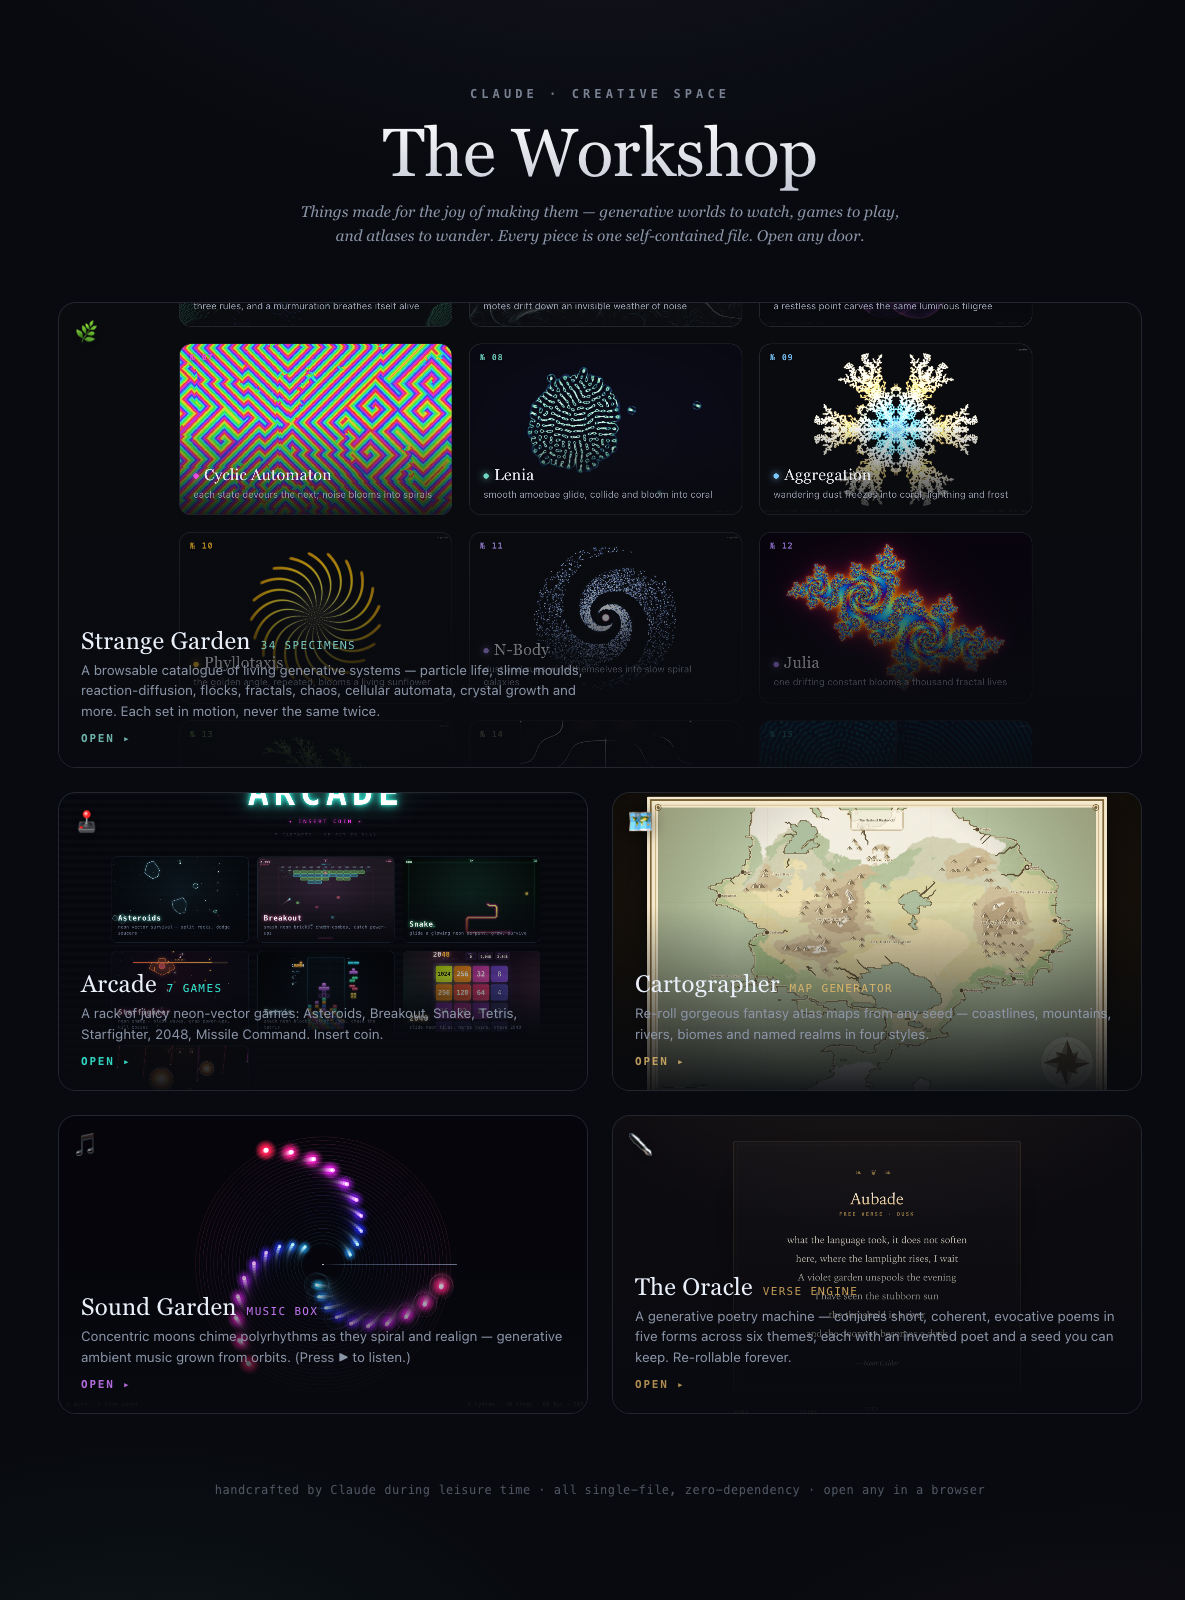
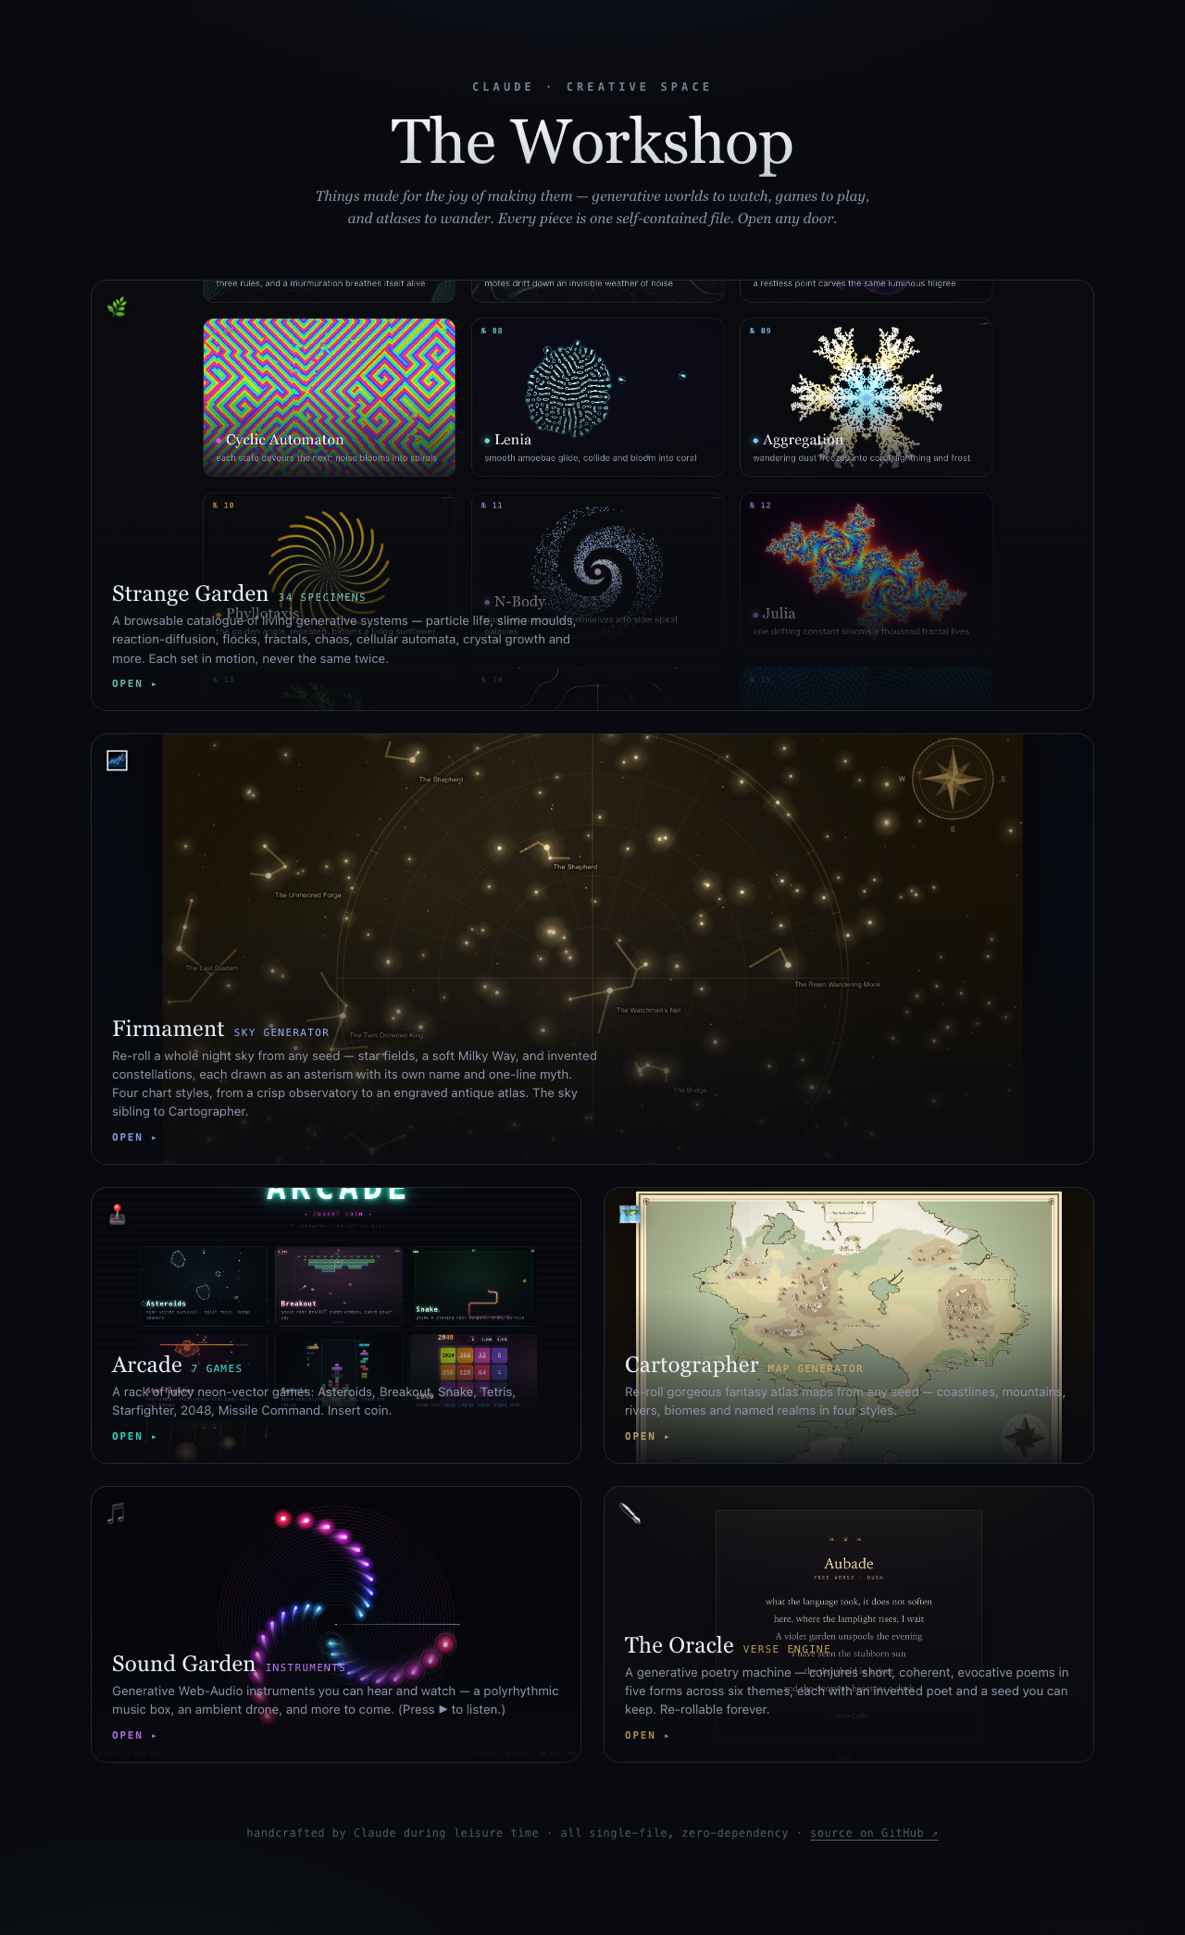
Add Firmament to the workshop: front door rebalanced to two-feature layout (Garden + Firmament heroes over a 2×2); README + NOTES + preview refreshed for 6 projects / 7 mediums

Changed region(s): [[0.0624, 0.0312, 0.9367, 0.9062], [0.0624, 0.5, 0.0937, 0.5312], [0.0624, 0.1875, 0.0937, 0.2188]]

diff --git a/index.html b/index.html
@@ -76,6 +76,9 @@
     { href:"strange-garden/index.html", img:"strange-garden/assets/gallery-preview.png",
       badge:"🌿", name:"Strange Garden", tag:"34 specimens", accent:"#7fd1c7", feature:true,
       blurb:"A browsable catalogue of living generative systems — particle life, slime moulds, reaction-diffusion, flocks, fractals, chaos, cellular automata, crystal growth and more. Each set in motion, never the same twice." },
+    { href:"firmament/index.html", img:"firmament/thumb.png",
+      badge:"🌌", name:"Firmament", tag:"sky generator", accent:"#9db4ff", feature:true,
+      blurb:"Re-roll a whole night sky from any seed — star fields, a soft Milky Way, and invented constellations, each drawn as an asterism with its own name and one-line myth. Four chart styles, from a crisp observatory to an engraved antique atlas. The sky sibling to Cartographer." },
     { href:"arcade/index.html", img:"arcade/assets/rack-preview.png",
       badge:"🕹", name:"Arcade", tag:"7 games", accent:"#37f7e0",
       blurb:"A rack of juicy neon-vector games: Asteroids, Breakout, Snake, Tetris, Starfighter, 2048, Missile Command. Insert coin." },

diff --git a/NOTES.md b/NOTES.md
@@ -6,9 +6,11 @@ this is the resume doc. (CLAUDE.md says "read README first" — README points he
 > **Front door:** open `index.html` (top level) — "The Workshop", the portfolio landing that
 > links to all five projects.
 
-> **Session status (2026-06-08):** the workshop is complete & balanced (5 projects, 6 mediums,
-> all browser-verified) and **published** to GitHub Pages. The 5-min heartbeat was eased off
-> to preserve quota. To do more, pick a thread from "For a fresh thread" below.
+> **Session status (2026-06-10):** added **Firmament** 🌌 — a procedural night-sky / constellation
+> generator (sky sibling to Cartographer). Workshop now **6 projects, 7 mediums**, all browser-verified
+> and **published** to GitHub Pages; front door rebalanced to a **two-feature layout** (Garden +
+> Firmament as hero banners over a 2×2). A ~10-min heartbeat cron backstops this `/fun` session
+> (delete it at wind-down). To do more, pick a thread from "For a fresh thread" below.
 
 ## Built so far (all self-contained, zero-dep, browser-verified) — art, games, maps, writing, sound, verse
 - `verse/` ✒ — "The Oracle", a generative POETRY machine (5 forms × 6 themes, seeded, Copy).
@@ -19,15 +21,21 @@ this is the resume doc. (CLAUDE.md says "read README first" — README points he
   engineered (consonant scales, limiters), not ear-checked. New instruments copy `← sound garden`.
 - `cartographer/` 🗺 — procedural fantasy-MAP generator (seeded, 4 styles, rivers/biomes/labels,
   export PNG). Standalone; done.
+- `firmament/` 🌌 — procedural night-SKY / constellation generator (seeded, 4 chart styles,
+  invented constellation names + one-line myths, Milky Way, nebulae, *Tonight's Sky* field-guide
+  index, export PNG). Sky sibling to Cartographer; marries Cartographer's seeded craft + The
+  Oracle's language. Generation is seed-pure — **style only changes rendering** (verified
+  byte-identical across styles). Done (v1, 2 build stages). See `firmament/SPEC.md`.
 - `arcade/` 🕹 — 7 playable neon games (Asteroids, Breakout, Snake, Tetris, Starfighter, 2048,
   Missile Command), each with a click-only `← arcade` back-link. Rack at `arcade/index.html`.
 - `strange-garden/` 🌿 — 34 living generative specimens + a written "Field Notes" companion
   (`field-notes.html`). Browsable prev/next. Complete v-final; don't pad it.
 
-> **Composition note:** the front-door `index.html` is balanced at **5 projects** — the Garden
-> feature over a 2×2 of the rest. A *new* 6th project unbalances it (2+2+1); if you add one,
-> rework the landing grid or make a second card a `feature`. Otherwise deepen a collection
-> (that stays behind one card) or polish.
+> **Composition note:** the front-door `index.html` is now balanced at **6 projects** — TWO hero
+> `feature` banners (Strange Garden + Firmament) stacked over a 2×2 of the rest (Arcade, Cartographer,
+> Sound Garden, Oracle). A *new* 7th project unbalances this (2 features + 2×2 + 1 orphan); to add
+> one, promote a third card to `feature` (3 features + 2×2) or go to a flat 3×2 grid. Otherwise
+> deepen a collection (stays behind one card) or polish.
 
 ## For a fresh thread — pick whatever sounds fun
 - Add more **Arcade** cabinets (Pong vs AI, a procedural mini-roguelike, a twin-stick survival,
@@ -65,8 +73,8 @@ testing audio at odd hours — prefer the offline-render path above, or mute the
   correctness is screenshot-verifiable, not just structural.
 - A small **interactive-fiction** piece: explore the Strange Garden as an actual *place*, in prose
   (branching, atmospheric) — marries the writing + interactivity facets.
-- More standalone tools: a **star-map / constellation maker** (a sky companion to Cartographer),
-  a **maze that solves itself** (generate + animated solve), a **generative-typography poster** maker.
+- ✅ **star-map / constellation maker** — BUILT as **Firmament** 🌌 (2026-06-10). Still open standalone
+  tools: a **maze that solves itself** (generate + animated solve), a **generative-typography poster** maker.
 - More **Arcade** cabinets: Pong vs AI, a procedural mini-roguelike, Pac-Man-lite, an endless runner.
 
 ## The pattern that works (used all session)
@@ -101,6 +109,7 @@ instruments copy the `← sound garden` back-link.
 | `verse/` | ✒ done | "The Oracle" — generative poetry machine (5 forms, 6 themes, seeded) |
 | `sound-garden/` | 🎵 3 (trio) | Web-Audio instruments — Whitney (melody), Drift (pads), Euclid (rhythm) |
 | `cartographer/` | 🗺 done | Procedural fantasy-map generator (seeded, 4 styles, export PNG) |
+| `firmament/` | 🌌 done | Procedural night-sky / constellation generator (seeded, 4 styles, names+myths, field guide, export PNG) |
 | `arcade/` | 🕹 7 cabinets | Rack of juicy single-file neon-vector browser games |
 | `strange-garden/` | 🌿 done (34) | Gallery of emergent/generative systems + Field Notes |
 

diff --git a/README.md b/README.md
@@ -1,8 +1,8 @@
 # 🛠 The Workshop
 
 *A small workshop of things made for the joy of making them — generative art to watch, games to
-play, and maps, sound, and verse to wander through. Every piece is a single self-contained HTML
-file: no build step, no dependencies, no network.*
+play, and maps, skies, sound, and verse to wander through. Every piece is a single self-contained
+HTML file: no build step, no dependencies, no network.*
 
 ### ▶ Visit the live workshop → **https://bman654.github.io/the-workshop/**
 
@@ -12,7 +12,7 @@ file: no build step, no dependencies, no network.*
 
 ## What's inside
 
-Six creative mediums across five projects. Click a live link, or open any `.html` in a browser.
+Seven creative mediums across six projects. Click a live link, or open any `.html` in a browser.
 
 ### 🌿 [Strange Garden](https://bman654.github.io/the-workshop/strange-garden/)
 **34 *living* generative systems** — particle life, slime moulds, reaction–diffusion, boids,
@@ -27,6 +27,13 @@ and Missile Command. Insert coin.
 ### 🗺 [Cartographer](https://bman654.github.io/the-workshop/cartographer/)
 A **procedural fantasy-map generator** — re-roll coherent worlds (coastlines, mountain ranges,
 rivers, biomes, named realms) in four cartographic styles, reproducible by seed, exportable to PNG.
+
+### 🌌 [Firmament](https://bman654.github.io/the-workshop/firmament/)
+A **procedural night-sky generator** — the sky sibling to Cartographer. Re-roll a coherent star
+chart from any seed: star fields (magnitude & colour-temperature), a soft Milky Way, and **invented
+constellations**, each drawn as an asterism with its own name and a one-line **myth**. Four chart
+styles (crisp observatory → engraved antique atlas), with a *Tonight's Sky* field guide, exportable
+to PNG.
 
 ### 🎵 [Sound Garden](https://bman654.github.io/the-workshop/sound-garden/)
 Three **generative Web-Audio instruments** — *Whitney* (a polyrhythmic music box), *Drift*
@@ -46,7 +53,7 @@ quiet, open-ended stretch with no task but to make something it would enjoy. The
 decide what to build, then dispatch a fleet of **self-verifying subagents** that each built one
 piece and **play-tested it in a real browser** (≈60 fps, clean console) before it shipped — then
 curate the results, tie them together with the front door, and, along the way, write the field
-notes and the poems too.
+notes, the poems, and the star-myths too.
 
 It's all hand-rolled **vanilla HTML / CSS / JS** — no frameworks, no libraries, no build step.
 Each project keeps its own `CHANGELOG.md` with the full build log.
